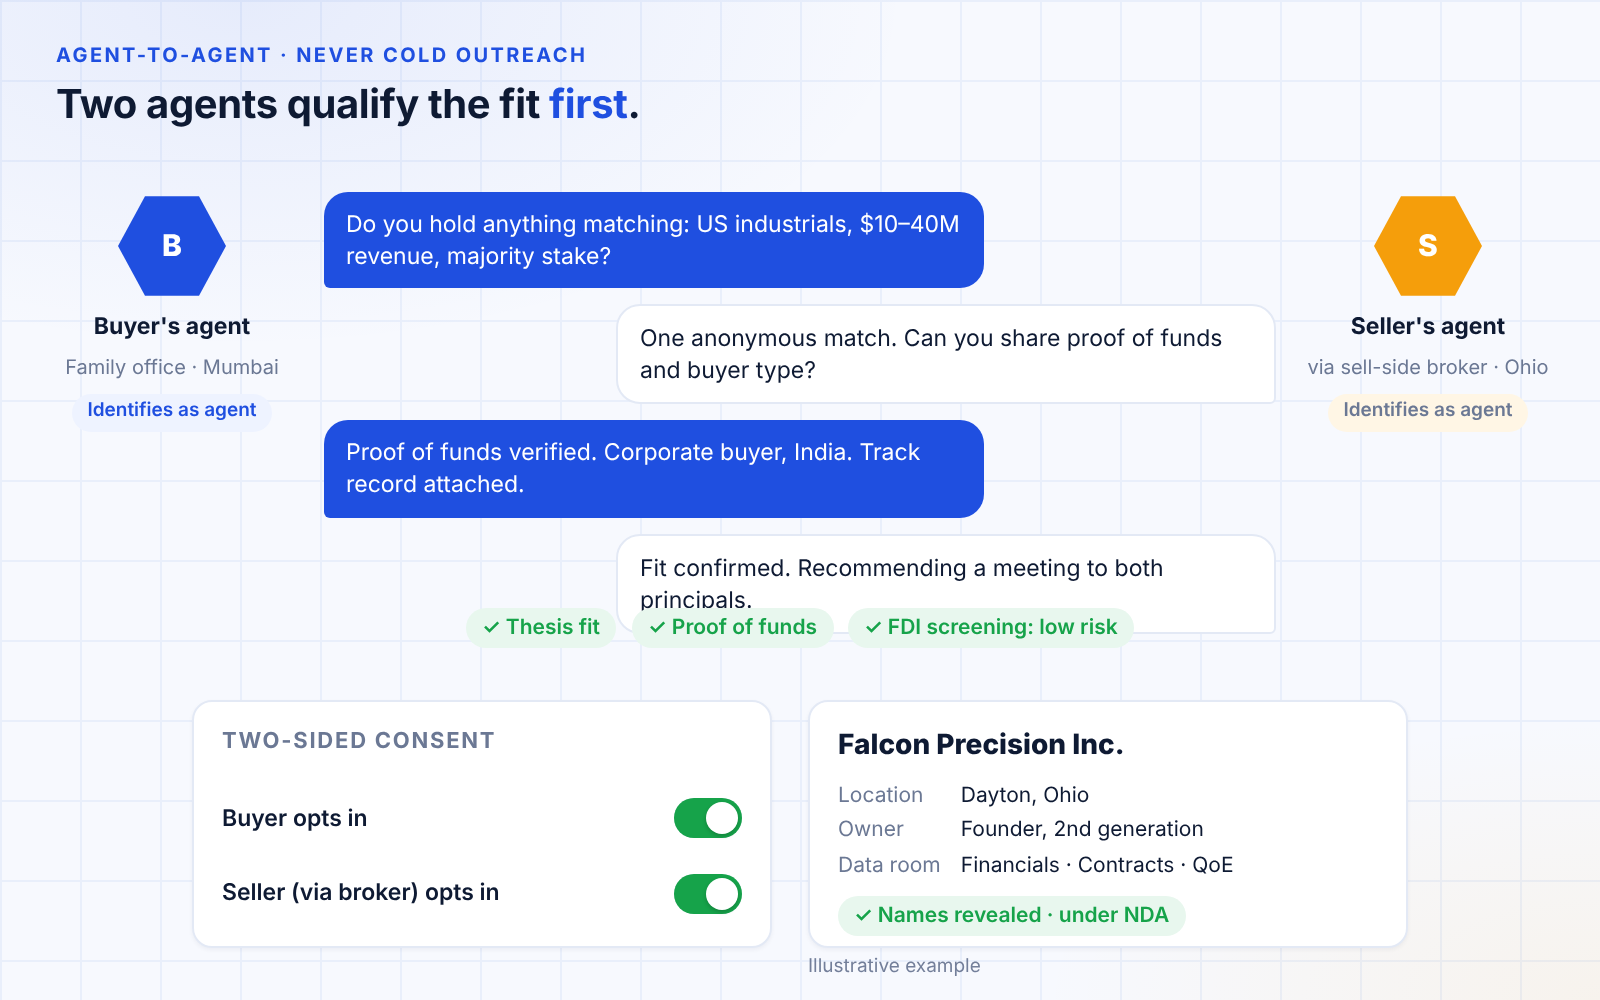
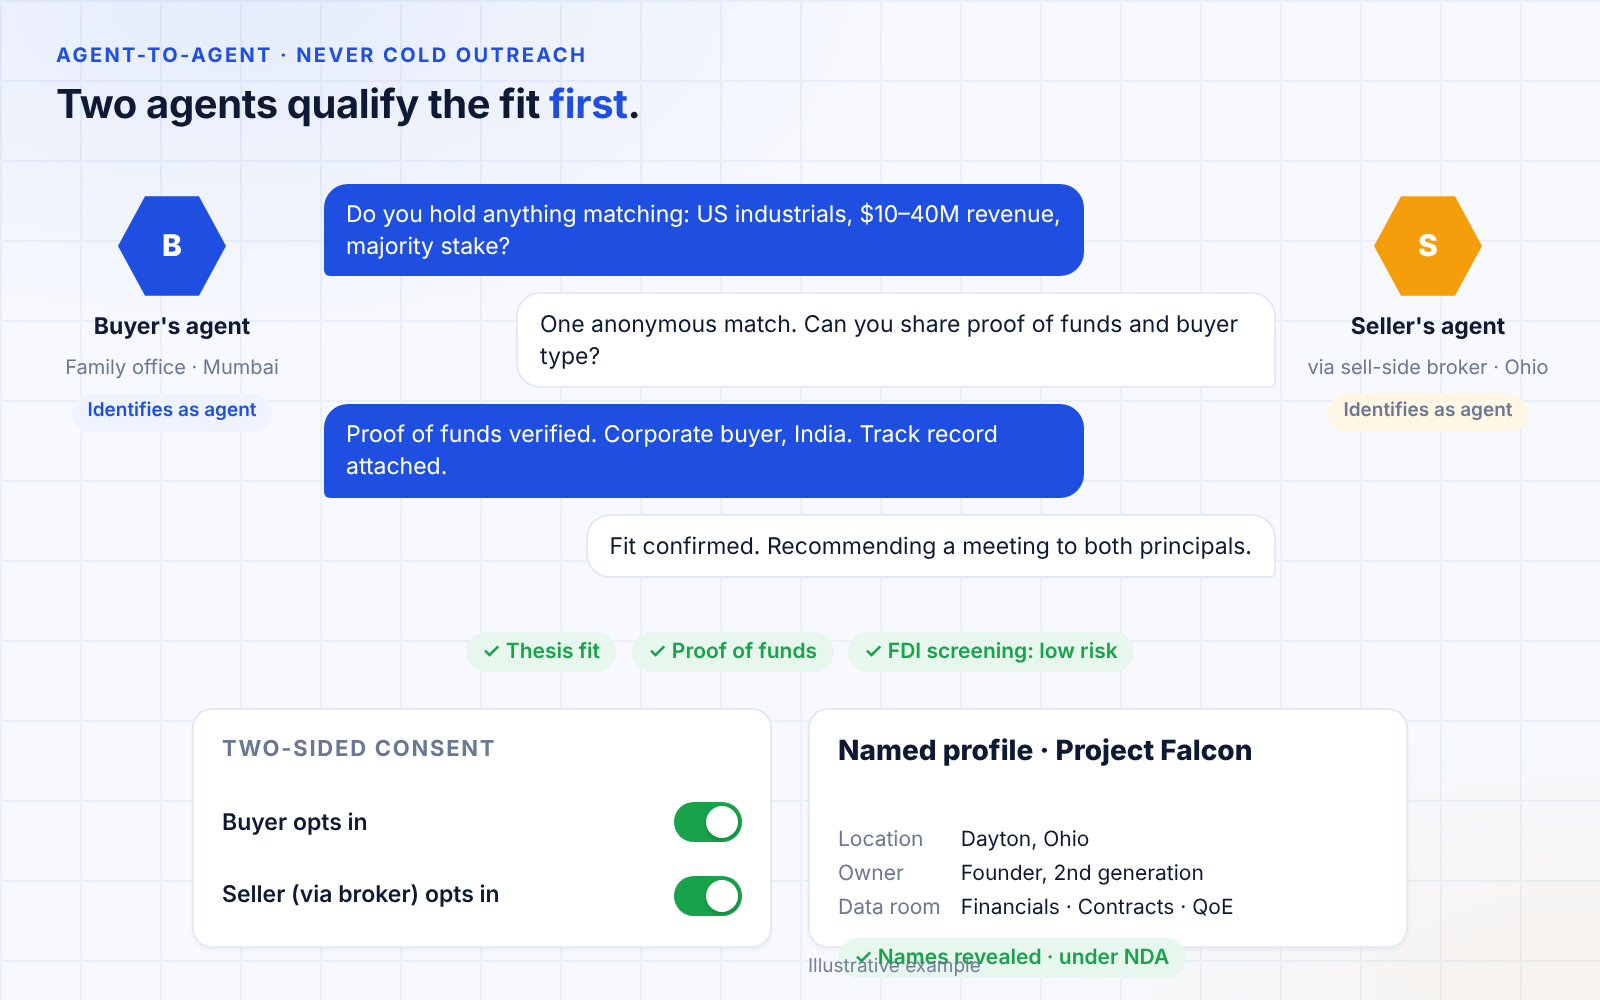
Add GIF scenes: barriers, why-now, pillars, agent-wiki, agent-to-agent, offer-stack, trust-tiers, corridors-roadmap, objections, flywheel
Claude-Session: https://claude.ai/code/session_013sJALjyn2FyxQTA8AYsoWu

diff --git a/visuals/src/personas.html b/visuals/src/personas.html
@@ -1,0 +1,85 @@
+<!doctype html><html><head><meta charset="utf-8"><link rel="stylesheet" href="_base.css">
+<style>
+svg.ov{position:absolute;left:0;top:0;width:800px;height:500px}
+.ln{stroke:#CBD5EA;stroke-width:2;stroke-dasharray:4 6;animation:flow 1s linear infinite,fadeIn .5s .9s both}
+@keyframes flow{to{stroke-dashoffset:-20}}
+.lh{stroke-width:3;stroke-linecap:round;opacity:0;animation:hlL 1.3s var(--d) both}
+@keyframes hlL{0%{opacity:0}12%{opacity:1}88%{opacity:1}100%{opacity:0}}
+.node{position:absolute;width:120px;margin-left:-60px;margin-top:-24px;display:flex;flex-direction:column;align-items:center;gap:6px;animation:pop .4s var(--p) both}
+.node .in2{display:flex;flex-direction:column;align-items:center;gap:5px;animation:hl 1.3s var(--d) both}
+@keyframes hl{0%{opacity:.5;transform:scale(1)}12%{opacity:1;transform:scale(1.18)}88%{opacity:1;transform:scale(1.18)}100%{opacity:.5;transform:scale(1)}}
+.node .agent{width:46px;height:46px;font-size:13px}
+.node .nm{font-size:11px;font-weight:700;background:#fff;border:1px solid var(--line);border-radius:7px;padding:2px 7px;white-space:nowrap}
+.hub{position:absolute;left:230px;top:290px;width:130px;height:104px;margin:-52px 0 0 -65px;border-radius:18px;background:var(--ink);color:#fff;
+  display:flex;flex-direction:column;align-items:center;justify-content:center;gap:6px;box-shadow:0 10px 30px rgba(14,26,51,.25);animation:pop .5s .5s both}
+.hub .logo{color:#fff}.hub .logo b{color:#8FB0FF}
+.hub .t{font-weight:800;font-size:15px}
+.hub .s{font-size:9.5px;color:#AFC0E6;letter-spacing:.04em}
+.hub::before{content:"";position:absolute;inset:-6px;border-radius:22px;border:2px solid rgba(31,79,224,.35);animation:pulse 1.6s ease-out infinite}
+.job{position:absolute;left:470px;top:104px;width:304px;height:360px;padding:0}
+.blk{position:absolute;inset:0;padding:18px 18px;opacity:0;animation:show 1.3s var(--d) both}
+@keyframes show{0%{opacity:0;transform:translateY(8px)}12%{opacity:1;transform:none}88%{opacity:1;transform:none}100%{opacity:0;transform:translateY(-6px)}}
+.blk .hd{display:flex;align-items:center;gap:12px}
+.blk .hd .agent{width:42px;height:42px}
+.blk h3{font-size:17px;font-weight:800;letter-spacing:-.01em}
+.blk .sub{font-size:10.5px;color:var(--ink-3);margin-top:2px}
+.blk .r{margin-top:14px;padding-top:12px;border-top:1px solid #F0F3FA}
+.blk .k{font-size:9.5px;letter-spacing:.1em;text-transform:uppercase;color:var(--ink-3);font-weight:700}
+.blk .v{font-size:12.5px;margin-top:4px;line-height:1.4}
+.blk .r.agentjob .v{font-weight:600;color:var(--ink)}
+.blk .r.agentjob{background:var(--blue-50);border:0;border-radius:10px;padding:10px 12px;margin-top:14px}
+.job .ph{position:absolute;inset:0;display:grid;place-items:center;color:var(--ink-3);font-size:12px;animation:fadeIn .3s .6s both,fadeOut .2s 1s forwards}
+</style></head>
+<body data-ms="9400" style="--T:9.4s"><div class="stage">
+  <div class="cap in" style="--d:.15s"><div class="eyebrow">Six seats at the table</div>
+    <h2>One platform. <em>Every side</em> of the deal.</h2></div>
+
+  <svg class="ov" viewBox="0 0 800 500">
+    <line class="ln" x1="230" y1="150" x2="230" y2="290"/><line class="ln" x1="356" y1="220" x2="230" y2="290"/>
+    <line class="ln" x1="356" y1="360" x2="230" y2="290"/><line class="ln" x1="230" y1="430" x2="230" y2="290"/>
+    <line class="ln" x1="104" y1="360" x2="230" y2="290"/><line class="ln" x1="104" y1="220" x2="230" y2="290"/>
+    <line class="lh" style="--d:1s;stroke:var(--teal)" x1="230" y1="150" x2="230" y2="290"/>
+    <line class="lh" style="--d:2.3s;stroke:var(--teal)" x1="356" y1="220" x2="230" y2="290"/>
+    <line class="lh" style="--d:3.6s;stroke:var(--blue)" x1="356" y1="360" x2="230" y2="290"/>
+    <line class="lh" style="--d:4.9s;stroke:var(--ink)" x1="230" y1="430" x2="230" y2="290"/>
+    <line class="lh" style="--d:6.2s;stroke:var(--violet)" x1="104" y1="360" x2="230" y2="290"/>
+    <line class="lh" style="--d:7.5s;stroke:var(--saffron)" x1="104" y1="220" x2="230" y2="290"/>
+  </svg>
+
+  <div class="hub"><span class="logo"><span class="mk"></span>BORDERLESS <b>DEALS</b></span><span class="t">Deal room</span><span class="s">LOI · DILIGENCE · SPA · CLOSE</span></div>
+
+  <div class="node" style="left:230px;top:150px;--p:.55s;--d:1s"><div class="in2"><span class="agent broker">SB</span><span class="nm">Sell-side broker</span></div></div>
+  <div class="node" style="left:356px;top:220px;--p:.62s;--d:2.3s"><div class="in2"><span class="agent broker">BB</span><span class="nm">Buy-side broker</span></div></div>
+  <div class="node" style="left:356px;top:360px;--p:.69s;--d:3.6s"><div class="in2"><span class="agent buyer">B</span><span class="nm">Strategic buyer</span></div></div>
+  <div class="node" style="left:230px;top:420px;--p:.76s;--d:4.9s"><div class="in2"><span class="agent pe">PE</span><span class="nm">Private equity</span></div></div>
+  <div class="node" style="left:104px;top:360px;--p:.83s;--d:6.2s"><div class="in2"><span class="agent provider">P</span><span class="nm">Service provider</span></div></div>
+  <div class="node" style="left:104px;top:220px;--p:.9s;--d:7.5s"><div class="in2"><span class="agent seller">S</span><span class="nm">Seller · via broker</span></div></div>
+
+  <div class="card job in" style="--d:.5s">
+    <div class="ph">Every participant has an agent</div>
+    <div class="blk" style="--d:1s"><div class="hd"><span class="agent broker">SB</span><div><h3>Sell-side broker</h3><div class="sub">The engine of the platform</div></div></div>
+      <div class="r"><div class="k">Lists</div><div class="v">A portfolio of companies for sale, each with its own anonymous teaser</div></div>
+      <div class="r"><div class="k">Gets</div><div class="v">Global buyer reach without a global network</div></div>
+      <div class="r agentjob"><div class="k">Agent's job</div><div class="v">Markets each mandate, qualifies buyers, manages NDAs and data release</div></div></div>
+    <div class="blk" style="--d:2.3s"><div class="hd"><span class="agent broker">BB</span><div><h3>Buy-side broker</h3><div class="sub">Serves a book of similar buyers</div></div></div>
+      <div class="r"><div class="k">Lists</div><div class="v">A set of requirements, or the targets a client wants</div></div>
+      <div class="r"><div class="k">Gets</div><div class="v">Reach into sell-side mandates in other countries</div></div>
+      <div class="r agentjob"><div class="k">Agent's job</div><div class="v">Runs every client's thesis across all listings, many mandates at once</div></div></div>
+    <div class="blk" style="--d:3.6s"><div class="hd"><span class="agent buyer">B</span><div><h3>Strategic buyer</h3><div class="sub">Corp dev with a clear thesis</div></div></div>
+      <div class="r"><div class="k">Lists</div><div class="v">Acquisition requirements: sector, geography, size, structure</div></div>
+      <div class="r"><div class="k">Gets</div><div class="v">Global target flow, shortlists and a path to close</div></div>
+      <div class="r agentjob"><div class="k">Agent's job</div><div class="v">Interprets the thesis, screens targets, runs first-round Q&amp;A, tracks the pipeline</div></div></div>
+    <div class="blk" style="--d:4.9s"><div class="hd"><span class="agent pe">PE</span><div><h3>Private equity</h3><div class="sub">Funds, independent sponsors, search funds</div></div></div>
+      <div class="r"><div class="k">Lists</div><div class="v">Investment criteria and add-on theses for portfolio companies</div></div>
+      <div class="r"><div class="k">Gets</div><div class="v">Cross-border deal flow, add-ons abroad, better exits</div></div>
+      <div class="r agentjob"><div class="k">Agent's job</div><div class="v">Sources continuously against the fund's and each portfolio company's criteria</div></div></div>
+    <div class="blk" style="--d:6.2s"><div class="hd"><span class="agent provider">P</span><div><h3>Service provider</h3><div class="sub">Legal · tax · valuation · financing · accounting</div></div></div>
+      <div class="r"><div class="k">Lists</div><div class="v">Specialty, jurisdictions, credentials and pricing</div></div>
+      <div class="r"><div class="k">Gets</div><div class="v">Requirements to bid on, plus direct inbound work</div></div>
+      <div class="r agentjob"><div class="k">Agent's job</div><div class="v">Answers requests for proposal, scopes work, reports progress into the deal room</div></div></div>
+    <div class="blk" style="--d:7.5s"><div class="hd"><span class="agent seller">S</span><div><h3>Seller</h3><div class="sub">Owner or founder · via a broker at launch</div></div></div>
+      <div class="r"><div class="k">Lists</div><div class="v">Itself, through a sanitized anonymous teaser</div></div>
+      <div class="r"><div class="k">Gets</div><div class="v">Qualified buyers worldwide and a run process to close</div></div>
+      <div class="r agentjob"><div class="k">Agent's job</div><div class="v">Builds the company wiki, controls disclosure, qualifies inbound buyers</div></div></div>
+  </div>
+</div></body></html>

diff --git a/visuals/src/ai-assistant.html b/visuals/src/ai-assistant.html
@@ -1,0 +1,75 @@
+<!doctype html><html><head><meta charset="utf-8"><link rel="stylesheet" href="_base.css">
+<style>
+.win.main{left:48px;top:82px;width:704px;height:398px;animation:fadeUp .5s .3s both}
+.win .bar .ai{display:flex;align-items:center;gap:7px;font-weight:700;font-size:11.5px}
+.aiav{width:18px;height:18px;border-radius:50%;background:conic-gradient(from 0deg,#8B9BC2,#C9D3EA,#8B9BC2);display:grid;place-items:center;color:#fff;font-size:8px;font-weight:800}
+.note{margin-left:auto;font-size:10px;color:var(--ink-3);display:flex;align-items:center;gap:6px}
+.user{position:absolute;right:16px;top:50px;max-width:470px;padding:9px 13px;border-radius:14px 14px 4px 14px;background:var(--blue-50);border:1px solid var(--blue-100);font-size:12.5px;font-weight:500;animation:fadeIn .3s .7s both}
+.user .tx{display:inline-block;white-space:nowrap;animation:type 1.5s steps(60,end) .85s both}
+@keyframes type{from{clip-path:inset(0 100% 0 0)}to{clip-path:inset(0 0 0 0)}}
+.say{position:absolute;left:16px;display:flex;align-items:flex-start;gap:9px;font-size:12px;width:660px}
+.say .aiav{width:22px;height:22px;flex:none}
+.src{display:inline-flex;align-items:center;gap:6px;font-size:10.5px;font-weight:700;padding:3px 8px;border-radius:7px;border:1px solid var(--line);background:#fff}
+.dotsld{display:inline-flex;gap:3px;margin-left:6px;vertical-align:middle}
+.dotsld i{width:5px;height:5px;border-radius:50%;background:var(--ink-3);display:block;animation:blink 1s infinite}
+.dotsld i:nth-child(2){animation-delay:.2s}.dotsld i:nth-child(3){animation-delay:.4s}
+.cards{position:absolute;left:47px;top:134px;display:flex;gap:10px}
+.tz{width:205px;padding:11px 12px}
+.tz .top{display:flex;justify-content:space-between;align-items:center}
+.tz .code{font-weight:800;font-size:13px;margin-top:7px}
+.tz .hid{height:9px;width:120px;border-radius:5px;background:linear-gradient(90deg,#E4E9F4,#EEF1F8);margin-top:5px;filter:blur(.5px)}
+.tz dl{display:grid;grid-template-columns:62px 1fr;gap:3px 6px;margin-top:9px;font-size:10.5px}
+.tz dt{color:var(--ink-3)} .tz dd{font-weight:600}
+.tz .ft{display:flex;gap:5px;margin-top:9px;flex-wrap:wrap}
+.btns{position:absolute;left:47px;top:344px;display:flex;gap:8px}
+.btn{font-size:11.5px;font-weight:700;padding:8px 13px;border-radius:9px;background:var(--blue);color:#fff;display:inline-flex;align-items:center;gap:6px}
+.btn.sec{background:#fff;color:var(--ink);border:1px solid var(--line)}
+.btn.press{animation:pop .4s 4.9s both,press .3s 6.3s both}
+@keyframes press{0%{transform:scale(1)}50%{transform:scale(.93);background:var(--blue-600)}100%{transform:scale(1)}}
+.free{position:absolute;left:430px;top:353px;font-size:10px;color:var(--ink-3);white-space:nowrap}
+.cursor{position:absolute;left:0;top:0;width:20px;height:24px;z-index:20;animation:cur 1s cubic-bezier(.4,0,.2,1) 5.3s both}
+@keyframes cur{0%{transform:translate(720px,480px);opacity:0}15%{opacity:1}100%{transform:translate(190px,436px);opacity:1}}
+.toast{position:absolute;left:452px;top:424px;padding:9px 13px;display:flex;align-items:center;gap:9px;font-size:11.5px;border-color:#BFE6CD;background:#F4FBF6;z-index:10}
+</style></head>
+<body data-ms="9000" style="--T:9s"><div class="stage">
+  <div class="cap in" style="--d:.15s"><div class="eyebrow">Discovery where buyers already search</div>
+    <h2>Your teaser appears inside the <em>AI assistants</em> buyers use.</h2></div>
+
+  <div class="win main">
+    <div class="bar"><div class="dots"><i></i><i></i><i></i></div>
+      <div class="ai"><span class="aiav">AI</span>AI assistant</div>
+      <div class="note"><span class="logo"><span class="mk"></span></span>Borderless Deals · via Claude &amp; ChatGPT plugins</div></div>
+
+    <div class="user"><span class="tx">Find US precision-machining companies for sale, $10–40M revenue</span></div>
+
+    <div class="say in" style="top:96px;--d:2.45s"><span class="aiav">AI</span>
+      <div style="padding-top:3px">Found 3 anonymous teasers from <span class="src"><span class="logo"><span class="mk"></span></span>Borderless Deals</span>
+        <span class="dotsld" style="animation:fadeOut .2s 4.1s forwards"><i></i><i></i><i></i></span></div></div>
+
+    <div class="cards">
+      <div class="card tz sl" style="--d:2.9s">
+        <div class="top"><span class="chip">Anonymous teaser</span><span class="muted" style="font-size:12px">🔒</span></div>
+        <div class="code">Project Falcon</div><div class="hid"></div>
+        <dl><dt>Sector</dt><dd>Precision machining</dd><dt>Region</dt><dd>Ohio, US</dd><dt>Revenue</dt><dd>$28M</dd></dl>
+        <div class="ft"><span class="chip g">✓ Broker-mandated</span></div></div>
+      <div class="card tz sl" style="--d:3.3s">
+        <div class="top"><span class="chip">Anonymous teaser</span><span class="muted" style="font-size:12px">🔒</span></div>
+        <div class="code">Project Kestrel</div><div class="hid"></div>
+        <dl><dt>Sector</dt><dd>Tooling &amp; machining</dd><dt>Region</dt><dd>Michigan, US</dd><dt>Revenue</dt><dd>$16M</dd></dl>
+        <div class="ft"><span class="chip g">✓ Broker-mandated</span></div></div>
+      <div class="card tz sl" style="--d:3.7s">
+        <div class="top"><span class="chip">Anonymous teaser</span><span class="muted" style="font-size:12px">🔒</span></div>
+        <div class="code">Project Osprey</div><div class="hid"></div>
+        <dl><dt>Sector</dt><dd>CNC components</dd><dt>Region</dt><dd>Texas, US</dd><dt>Revenue</dt><dd>$37M</dd></dl>
+        <div class="ft"><span class="chip g">✓ Broker-mandated</span></div></div>
+    </div>
+
+    <div class="say in" style="top:316px;--d:4.3s;font-size:11.5px;color:var(--ink-2)"><span class="aiav" style="visibility:hidden">AI</span>
+      <div>Names and financials are released under NDA. To sign an NDA or contact the broker, join Borderless Deals.</div></div>
+    <div class="btns"><span class="btn press">Sign NDA → Join Borderless</span><span class="btn sec pop" style="--d:5s">Ask about Project Falcon</span></div>
+    <div class="free" style="animation:fadeIn .4s 5.1s both,fadeOut .2s 6.4s forwards">Browsing is free · engaging requires membership</div>
+  </div>
+
+  <svg class="cursor" viewBox="0 0 20 24"><path d="M2 2 L2 19 L6.5 14.5 L9.5 21.5 L12.5 20.2 L9.6 13.4 L16 13.4 Z" fill="#0E1A33" stroke="#fff" stroke-width="1.5" stroke-linejoin="round"/></svg>
+  <div class="card toast pop" style="--d:6.6s"><span class="tick">✓</span><span><b>Joined</b> · NDA request routed to the listing broker</span></div>
+</div></body></html>

diff --git a/visuals/src/agent-to-agent.html b/visuals/src/agent-to-agent.html
@@ -5,11 +5,11 @@
 .side.l{left:22px}.side.r{left:650px}
 .chat{position:absolute;left:162px;width:476px;top:80px;display:grid;gap:8px}
 .m{display:flex}.m.r{justify-content:flex-end}
-.bub{max-width:330px;padding:8px 11px;border-radius:12px;font-size:11.5px;line-height:1.4}
+.bub{max-width:380px;padding:7px 11px;border-radius:12px;font-size:11.5px;line-height:1.4}
 .m.l .bub{background:var(--blue);color:#fff;border-bottom-left-radius:3px}
 .m.r .bub{background:#fff;border:1px solid var(--line);border-bottom-right-radius:3px}
-.checks{position:absolute;left:162px;width:476px;top:304px;display:flex;justify-content:center;gap:8px}
-.bot{position:absolute;top:350px;height:124px}
+.checks{position:absolute;left:162px;width:476px;top:316px;display:flex;justify-content:center;gap:8px}
+.bot{position:absolute;top:354px;height:120px}
 .opt{left:96px;width:290px;padding:12px 14px;display:grid;gap:10px}
 .optrow{display:flex;align-items:center;justify-content:space-between;font-size:11.5px;font-weight:600}
 .sw{width:34px;height:20px;border-radius:10px;background:#D6DEEE;position:relative}
@@ -33,7 +33,7 @@
   <div class="side l sr" style="--d:.3s;top:96px"><div class="agent buyer lg">B</div><div class="t">Buyer's agent</div><div class="s">Family office · Mumbai</div><span class="chip" style="font-size:9.5px">Identifies as agent</span></div>
   <div class="side r sl" style="--d:.45s;top:96px"><div class="agent seller lg">S</div><div class="t">Seller's agent</div><div class="s">via sell-side broker · Ohio</div><span class="chip s" style="font-size:9.5px">Identifies as agent</span></div>
 
-  <div class="chat" style="top:96px">
+  <div class="chat" style="top:92px">
     <div class="m l sr" style="--d:.8s"><div class="bub">Do you hold anything matching: US industrials, $10–40M revenue, majority stake?</div></div>
     <div class="m r sl" style="--d:1.8s"><div class="bub">One anonymous match. Can you share proof of funds and buyer type?</div></div>
     <div class="m l sr" style="--d:2.8s"><div class="bub">Proof of funds verified. Corporate buyer, India. Track record attached.</div></div>
@@ -49,7 +49,7 @@
   </div>
 
   <div class="card bot teaser in" style="--d:4.6s">
-    <div style="display:flex;justify-content:space-between;align-items:center"><div class="nm"><span class="anon">“Project Falcon” · anonymous</span><span class="named">Falcon Precision Inc.</span></div>
+    <div style="display:flex;justify-content:space-between;align-items:center"><div class="nm"><span class="anon">Anonymous teaser · “Project Falcon”</span><span class="named">Named profile · Project Falcon</span></div>
       <span class="chip k" style="animation:fadeOut .3s 6.4s forwards">Teaser</span></div>
     <div class="kv"><span>Location</span><span class="blurln">Dayton, Ohio</span><span>Owner</span><span class="blurln">Founder, 2nd generation</span><span>Data room</span><span class="blurln">Financials · Contracts · QoE</span></div>
     <div style="margin-top:8px"><span class="chip g pop" style="--d:7s">✓ Names revealed · under NDA</span></div>

diff --git a/visuals/src/why-now.html b/visuals/src/why-now.html
@@ -8,7 +8,7 @@
 .gl{position:absolute;left:0;right:0;height:1px;background:var(--line)}
 .gl span{position:absolute;left:-36px;top:-7px;font-size:10px;color:var(--ink-3);width:30px;text-align:right}
 .barc{position:absolute;bottom:0;width:70px}
-.bar{position:absolute;top:0;bottom:0;left:0;right:0;border-radius:8px 8px 0 0;transform-origin:bottom;animation:growY .8s cubic-bezier(.2,.7,.2,1) var(--d) both}
+.cb{position:absolute;top:0;bottom:0;left:0;right:0;border-radius:8px 8px 0 0;transform-origin:bottom;animation:growY .8s cubic-bezier(.2,.7,.2,1) var(--d) both}
 .barc .v{position:absolute;left:0;right:0;text-align:center;font-weight:800;font-size:18px}
 .barc .x{position:absolute;left:-10px;right:-10px;bottom:-22px;text-align:center;font-size:11px;font-weight:600;color:var(--ink-2)}
 svg.ln{position:absolute;left:0;top:0;width:100%;height:100%;overflow:visible}
@@ -41,8 +41,8 @@ svg.ln{position:absolute;left:0;top:0;width:100%;height:100%;overflow:visible}
       <div class="gl" style="bottom:50%"><span>30%</span></div>
       <div class="gl" style="bottom:75%"><span>45%</span></div>
       <div class="gl" style="bottom:100%"><span>60%</span></div>
-      <div class="barc" style="left:20px;height:83.3%"><div class="bar" style="--d:.7s;background:var(--blue-100)"></div><div class="v fi" style="--d:1.3s;top:-28px;color:var(--ink-2)">~50%</div><div class="x">2007 peak</div></div>
-      <div class="barc" style="left:120px;height:50%"><div class="bar" style="--d:1.2s;background:var(--blue)"></div><div class="v fi" style="--d:1.8s;top:-28px;color:var(--blue)">~30%</div><div class="x">Today</div></div>
+      <div class="barc" style="left:20px;height:83.3%"><div class="cb" style="--d:.7s;background:var(--blue-100)"></div><div class="v fi" style="--d:1.3s;top:-28px;color:var(--ink-2)">~50%</div><div class="x">2007 peak</div></div>
+      <div class="barc" style="left:120px;height:50%"><div class="cb" style="--d:1.2s;background:var(--blue)"></div><div class="v fi" style="--d:1.8s;top:-28px;color:var(--blue)">~30%</div><div class="x">Today</div></div>
       <div class="down pop" style="--d:2.4s"><span class="chip r">▼ −20 pts</span></div>
       <svg class="ln" viewBox="0 0 364 256" preserveAspectRatio="none">
         <defs><mask id="m" maskUnits="userSpaceOnUse"><path class="mask" d="M155 128 C210 120 250 80 340 22"/></mask></defs>

diff --git a/visuals/src/pillars.html b/visuals/src/pillars.html
@@ -26,7 +26,7 @@
 .wc{padding:10px 12px;display:grid;gap:6px}
 .wc .top{display:flex;gap:8px;align-items:center}
 .wc .t{font-weight:700;font-size:12px}.wc .s{font-size:10px;color:var(--ink-3)}
-.thesis{padding:10px 12px;font-size:11.5px;display:flex;gap:10px;align-items:center;margin-bottom:12px}
+.thesis{position:relative;z-index:0;padding:10px 12px;font-size:11.5px;display:flex;gap:10px;align-items:center;margin-bottom:12px}
 .type{display:inline-block;overflow:hidden;white-space:nowrap;vertical-align:bottom;animation:typing 1.4s steps(48,end) 3.4s both}
 .row{display:grid;grid-template-columns:28px 1fr 140px;align-items:center;gap:10px;padding:9px 10px;margin-bottom:7px}
 .rk{font-weight:800;color:var(--blue);font-size:13px}
